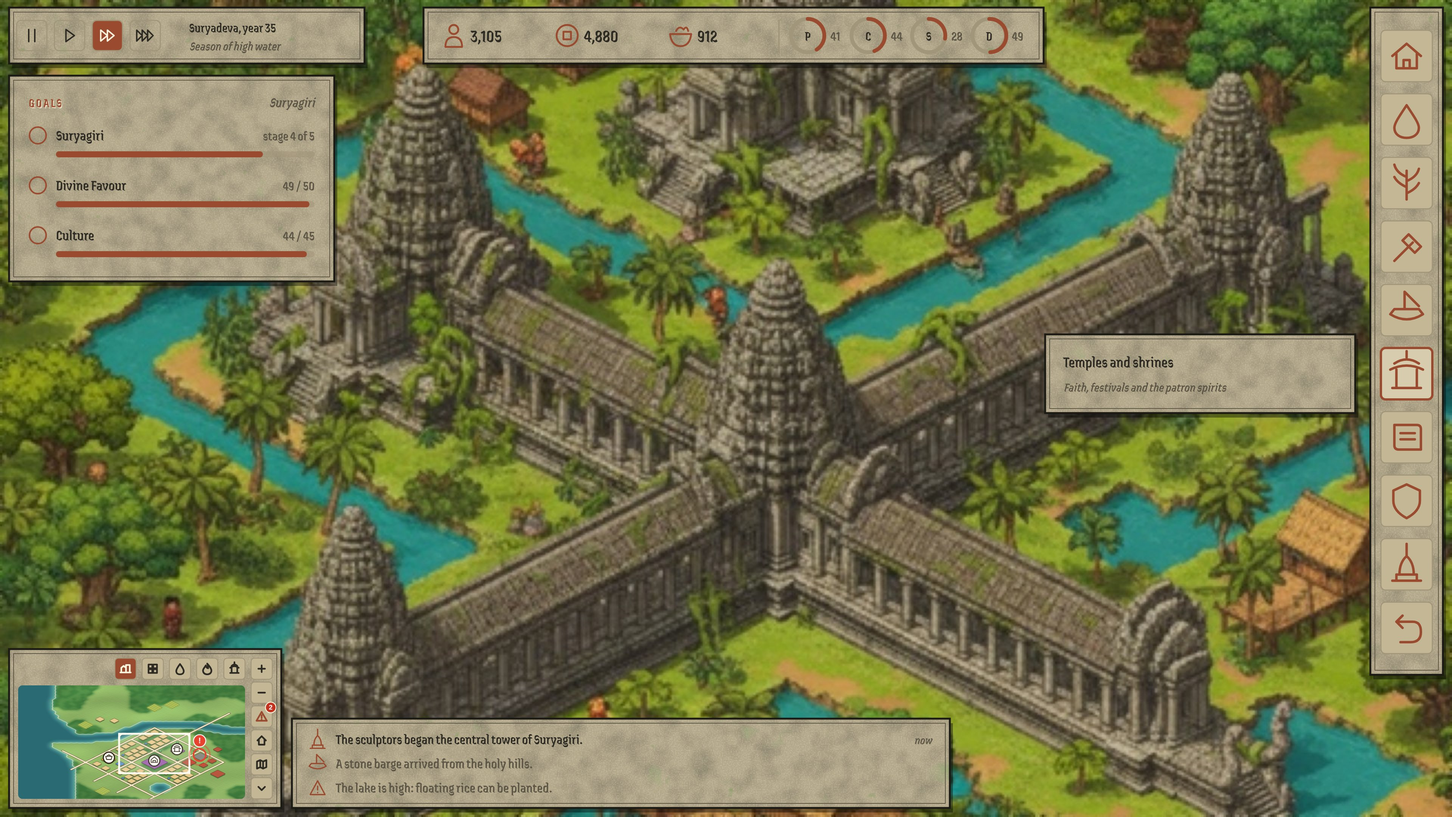
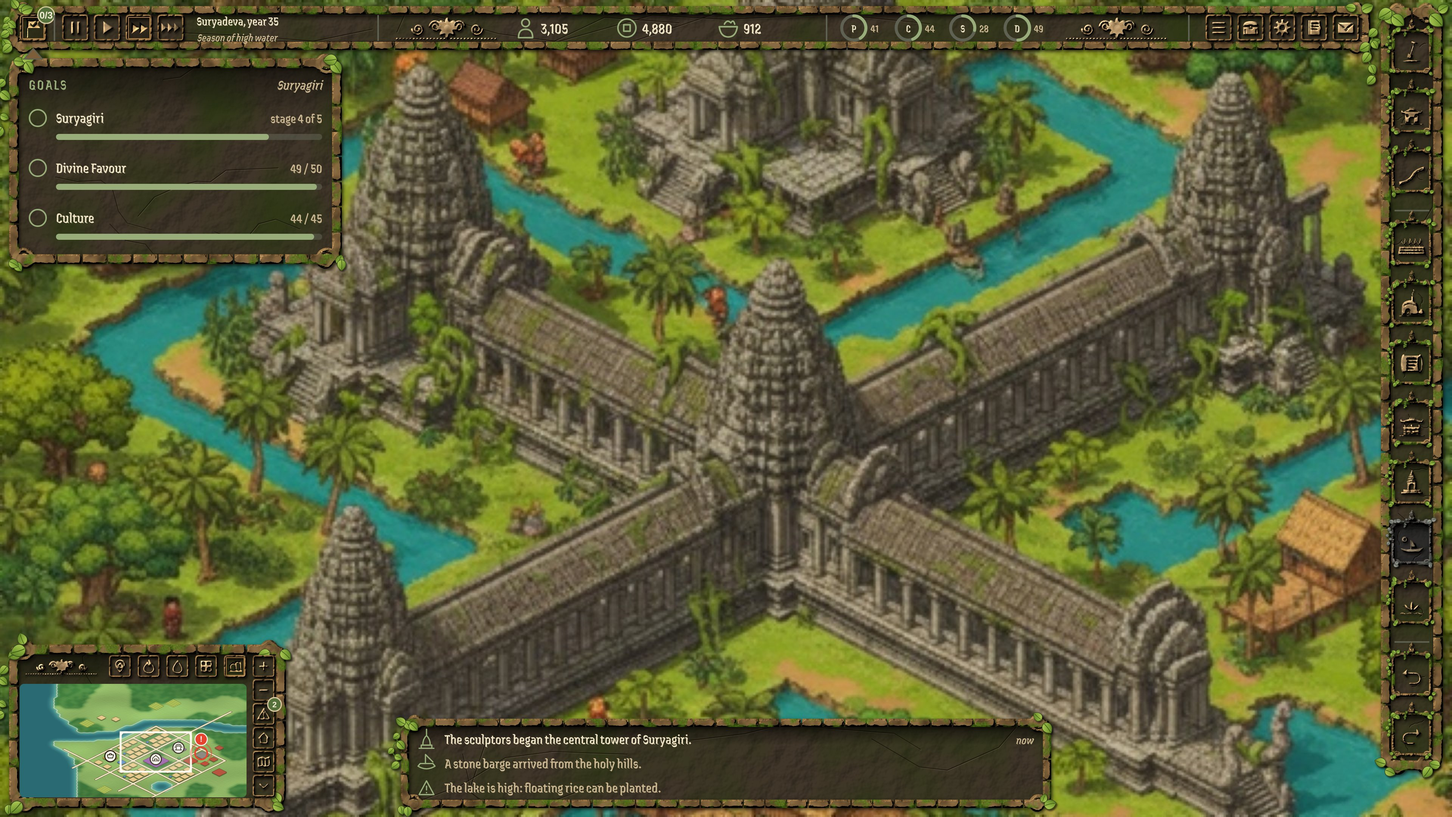
Mockups: the redrawn HUD replaces the old one; Phase 5 planned on it
hud-<realm> is now the agreed HUD at rest (palette.py), and the old
hud-menus mockups are gone (build-palette shows the build menu). The
plan's Phase 5 is rewritten on the agreed design: art and skin data,
the top bar and goals, the build palette, the minimap, message log and
inspector, then the wrap-up.

Claude-Session: https://claude.ai/code/session_01E5PQdFiW8ubMzCiZxgcQDM

Changed region(s): [[0.0, 0.0, 1.0, 0.9616], [0.0, 0.7755, 0.75, 1.0]]

diff --git a/docs/design/mockups/generator/dialogs.py b/docs/design/mockups/generator/dialogs.py
@@ -5,7 +5,6 @@ realm, into build/:
 - campaign-picker: Campaign on the home menu, once more than one is reached;
 - briefing: the mission's scroll before it starts;
 - campaign-complete: the finished stele;
-- hud-menus: the HUD's menu buttons, the build bar's child menu and its tooltip with costs;
 - inspector: the building inspector;
 - event: the important-event popup (a flood, a court request, a fire).
 
@@ -294,59 +293,6 @@ class Dialogs(Pages):
                        + self.glyph(ic, x, 47, 0.8, self.on_icon if on else self.panel_text))
         return "".join(out), bx
 
-    def hud_menus(self):
-        d = self.dd
-        parts = self.hud_parts(keep_style=True)
-        bar, _ = self.menu_buttons()
-        parts.append(bar)
-        title, items = d["build_menu"]
-        bx = W - 96 - 12
-        # The child menu of the hovered category (temples, the sixth button).
-        mw, ih = 440, 88
-        mx = bx - 20 - mw
-        my = 40 + 5 * 84 + 34 - 70
-        mh = 70 + len(items) * ih + 12
-        parts.append(self.box(mx, my, mw, mh))
-        parts.append(self.section_title(mx + 24, my + 42, title))
-        hover = 1
-        for k, (name, cost, mats, upkeep, size, reason) in enumerate(items):
-            iy = my + 62 + k * ih
-            on = k == hover
-            dimmed = reason is not None
-            g = [f'<rect x="{mx + 12}" y="{iy}" width="{mw - 24}" height="{ih - 8}" rx="6" fill="{self.btn_fill_hover if on else "none"}" '
-                 f'stroke="{self.accent if on else "none"}" stroke-width="2"/>']
-            g.append(f'<rect x="{mx + 24}" y="{iy + 10}" width="60" height="60" rx="6" fill="{self.btn_fill}" stroke="{self.panel_rule}" stroke-width="1.5"/>'
-                     + self.glyph("temple", mx + 54, iy + 40, 1.15, self.accent))
-            g.append(T(mx + 100, iy + 34, name, self.title_font, 21, self.panel_text, "start", 700))
-            g.append(self.coin_small(mx + mw - 92, iy + 27) + self.t(mx + mw - 30, iy + 34, str(cost), 19, self.panel_text, "end", 700))
-            if reason:
-                g.append(self.t(mx + 100, iy + 62, reason, 17, self.accent, "start", 700, italic=True))
-            else:
-                g.append(self.t(mx + 100, iy + 62, " · ".join(f"{m} {n}" for m, n in mats) or "No materials", 17, self.panel_sub, "start", 600))
-            parts.append(f'<g opacity="{0.5 if dimmed else 1}">' + "".join(g) + "</g>")
-        # The hovered building's tooltip, with its costs.
-        name, cost, mats, upkeep, size, _ = items[hover]
-        tw, th = 400, 400
-        tx, ty = mx - 18 - tw, my + 62 + hover * ih - 20
-        parts.append(self.box(tx, ty, tw, th))
-        parts.append(T(tx + 24, ty + 44, name, self.title_font, 25, self.panel_text, "start", 700))
-        parts.append(self.t(tx + tw - 24, ty + 44, size, 17, self.panel_sub, "end", 600))
-        note = self.wrap(d["temple_note"], tw - 48, 17, 0.5)
-        for k, line in enumerate(note):
-            parts.append(self.t(tx + 24, ty + 76 + k * 24, line, 17, self.panel_sub, "start", 600, italic=True))
-        ry = ty + 76 + len(note) * 24 + 22
-        parts.append(self.rule(tx + 24, tx + tw - 24, ry - 16))
-        rows = [("Cost", f"{cost} gold", True)]
-        for m, n in mats:
-            have = d["stock"][m]
-            rows.append((m, f"{n}  ·  {have} in storage", have >= n))
-        rows += [("Upkeep", f"{upkeep} gold a year", True), ("Workers", "8", True), ("Building time", "Civic · about 2 months", True)]
-        for k, (lab, v, ok) in enumerate(rows):
-            yy = ry + 14 + k * 34
-            parts.append(self.t(tx + 24, yy, lab, 18, self.panel_sub, "start", 600))
-            parts.append(self.t(tx + tw - 24, yy, v, 18, self.panel_text if ok else self.accent, "end", 700))
-        self.page(f"hud-menus-{d['key']}", parts)
-
     def coin_small(self, x, y):
         return (f'<circle cx="{x}" cy="{y}" r="9" fill="#c99a3c" stroke="#5a3a14" stroke-width="1.5"/>'
                 f'<rect x="{x - 3}" y="{y - 3}" width="6" height="6" fill="#2a170c"/>')
@@ -479,7 +425,7 @@ class TampadesaDialogs(Dialogs, TampadesaMenus):
 
 
 REALMS = [(DaiLongDialogs, DC.DAILONG), (KambaraDialogs, DC.KAMBARA), (TampadesaDialogs, DC.TAMPADESA)]
-SCREENS = ["game_menu", "game_quit", "campaign_picker", "briefing", "campaign_complete", "hud_menus", "inspector", "event"]
+SCREENS = ["game_menu", "game_quit", "campaign_picker", "briefing", "campaign_complete", "inspector", "event"]
 
 if __name__ == "__main__":
     import sys

diff --git a/docs/design/mockups/generator/serve.py b/docs/design/mockups/generator/serve.py
@@ -30,11 +30,11 @@ ICONS = (HERE / "../../../../crates/tools/ui-icons/icons.json").resolve()  # The
 
 REALMS = [("dailong", "Đại Long"), ("kambara", "Kambara"), ("tampadesa", "Tampadesa")]
 SCREENS = [
-    ("world-map", "World map"), ("intro", "Intro"), ("intermission", "Intermission"), ("hud", "In-game HUD"),
+    ("world-map", "World map"), ("intro", "Intro"), ("intermission", "Intermission"), ("hud", "In-game HUD"), ("build-palette", "Build palette"), ("build-icons", "Build palette icons"),
     ("menu-home", "Home"), ("menu-load-save", "Load / save"), ("menu-settings", "Settings"),
     ("menu-custom-game", "Custom game"), ("menu-about", "About"),
     ("campaign-picker", "Campaign picker"), ("game-menu", "Game menu"), ("game-quit", "Quit popup"),
-    ("briefing", "Briefing"), ("campaign-complete", "Campaign complete"), ("hud-menus", "HUD menus and build menu"),
+    ("briefing", "Briefing"), ("campaign-complete", "Campaign complete"),
     ("inspector", "Building inspector"), ("event", "Event popup"),
     ("city-overview", "City book: overview"), ("city-population", "City book: population"), ("city-goods", "City book: goods"),
     ("city-finances", "City book: finances"), ("city-ratings", "City book: ratings"), ("city-labour", "City book: labour"),

diff --git a/docs/design/mockups/generator/palette.py b/docs/design/mockups/generator/palette.py
@@ -6,8 +6,8 @@
   game-menu buttons, the sector column, the minimap's buttons), one sector open
   as a grid of icons left of the column, and the hovered icon's tooltip with its
   name and cost;
-- hud-goals-<realm>: the same HUD at rest, with the goals panel open under its
-  button.
+- hud-<realm>: the same HUD at rest, with the goals panel open under its
+  button (it replaced screens.py's HUD and dialogs.py's hud-menus).
 
 Each realm treats the same pictograms its own way: Đại Long stamps them in
 vermilion seal ink on paper, Kambara carves them in relief in sandstone, and
@@ -553,7 +553,7 @@ class Palette:
 
     def hud_goals(self):
         parts, *_ = self.hud_v2(None, goals_open=True)
-        self.page(f"hud-goals-{self.dd['key']}", parts)
+        self.page(f"hud-{self.dd['key']}", parts)
 
     def build_icons(self):
         realm = self.dd["key"]

diff --git a/docs/design/mockups/generator/screens.py b/docs/design/mockups/generator/screens.py
@@ -957,7 +957,7 @@ REALMS = [(DaiLongScreens, SC.DAILONG), (KambaraScreens, SC.KAMBARA), (Tampadesa
 
 if __name__ == "__main__":
     import sys
-    which = sys.argv[1:] or ["intro", "intermission", "hud"]
+    which = sys.argv[1:] or ["intro", "intermission"]  # the HUD page is palette.py's now
     for cls, data in REALMS:
         for screen in which:
             getattr(cls(data), screen)()

diff --git a/docs/plans/realm-ui.md b/docs/plans/realm-ui.md
@@ -1,6 +1,6 @@
 # Realm UI: menus, screens and HUD in each realm's style
 
-**Status (2026-11-13): Phases 0 and 1 done (the main menus: Home, Load / Save, Settings, Custom Game, About and the in-game Game menu); Phase 2 done (the world map: its data, base art, screen, pan and zoom, and the next mission's choice); Phase 3 done (the debrief, the campaign-complete stele and the briefing); Phase 4 done (story comics: the story data and panel art, the comic viewer, the triggers and replays, and the developer editor's Screens menu); Phase 5, the HUD, next: it waits for the tile palette icon mockups.** The user reviewed it on 2026-11-07: their notes are folded in (see [Review notes](#review-notes)), the open decisions' defaults are accepted, and every mockup the phases need now exists. This plan builds and restyles every retail screen after the [UI mockups](../design/mockups/README.md): the main menus, the world map, the intermission, the story comics, the HUD and the city management pages. Each screen gets one look per realm: Đại Long, Kambara and Tampadesa. It is milestone **UI** of the [roadmap](roadmap.md). It was researched against `ccca1df` on `claude`. File and line references point at that commit, so re-check them before relying on them.
+**Status (2026-11-13): Phases 0 and 1 done (the main menus: Home, Load / Save, Settings, Custom Game, About and the in-game Game menu); Phase 2 done (the world map: its data, base art, screen, pan and zoom, and the next mission's choice); Phase 3 done (the debrief, the campaign-complete stele and the briefing); Phase 4 done (story comics: the story data and panel art, the comic viewer, the triggers and replays, and the developer editor's Screens menu); Phase 5, the HUD, next: its mockups were redrawn with the user on 2026-11-14.** The user reviewed it on 2026-11-07: their notes are folded in (see [Review notes](#review-notes)), the open decisions' defaults are accepted, and every mockup the phases need now exists. This plan builds and restyles every retail screen after the [UI mockups](../design/mockups/README.md): the main menus, the world map, the intermission, the story comics, the HUD and the city management pages. Each screen gets one look per realm: Đại Long, Kambara and Tampadesa. It is milestone **UI** of the [roadmap](roadmap.md). It was researched against `ccca1df` on `claude`. File and line references point at that commit, so re-check them before relying on them.
 
 ![Home menu, Đại Long](../design/mockups/menu-home-dailong.jpg)
 
@@ -760,32 +760,31 @@ The existing dialogs keep their layouts but take their panels from the Đại Lo
 
 ### Phase 5: HUD
 
-**Delivers:** the in-game HUD as in `hud-<realm>.jpg`, with every old sprite gone.
+**Delivers:** the in-game HUD as in `hud-<realm>.jpg` and `build-palette-<realm>.jpg`, every button an icon tile in its realm's craft (`build-icons-<realm>.jpg`), with every old sprite gone.
 
-> **Before starting (the user, 2026-11-13):** the tile palette (the build bar's child menus) is to show a custom icon for each building instead of its text label, a deviation from the build bar item below. New mockups for it are to be designed with the user first, so Phase 5 doesn't start until they've been drawn and agreed. Remind the user of this when Phase 5 comes up.
+> **Design agreed with the user (2026-11-14), replacing this phase's first draft:** the mockups were redrawn over five rounds (commits `ecad674` to `f2a72da`, then the old `hud` and `hud-menus` mockups replaced). The decisions:
+> - Every building, sector, HUD and minimap button is an icon tile, no text labels: Đại Long a vermilion stamp (hand-pressed, uneven) on parchment in gilt bamboo under a small tiled roof; Kambara a relief on dark stone in a carved sandstone frame crowned by a Bayon face, with moss and vines; Tampadesa gold leaf on dark mudbrick in a weathered brick frame with a gold arch, under three gilt stupas. Small tiles (the top bar's, the minimap's) keep only the frame, so their icons stay readable.
+> - The pictograms (`docs/design/mockups/generator/palette_glyphs.py`) are drawn in each realm's architecture; the shrine, temple and university also take realm names (Spirit shrine, Neak ta shrine, Nat shrine; Temple, Prasat, Stupa; Temple of Literature, Library, Monastery school). Services' icon is a rolled scroll.
+> - The palette: the sector column on the right; a sector opens its buildings as a grid of icons, four to a row, left of the column; hovering one shows its name, size, cost and materials against storage (short ones in the realm's warning colour); clicking picks it and closes the grid; a building that can't be built stays in the grid, faded.
+> - One bar across the top, from the left edge to the build column, 58 points high: the goals button first (its badge counting the goals met), the speed controls, the date and season; population, treasury, food and the ratings in the middle; the game menu's buttons (Game, Load / Save, Settings, City book, Briefing) at the right. Its empty stretches, and the minimap's left of its lenses, hold an ornament in the realm's craft.
+> - The goals panel is closed by default and drops down under the goals button.
+> - The message log is centred at the bottom of the screen.
+> - Count badges take the realm's colours (a vermilion seal ringed in gilt; moss on a sandstone ring; gold leaf ringed in lacquer). Kambara's accents (icons, bars, rings, titles) are moss green on stone.
+> - The HUD's panels: Đại Long carved red wood round parchment, its ornaments all outside the parchment (key-pattern corner blocks; on large panels a carved lattice, gilt ruyi clouds, a lotus medallion under a little roof and a gilt cloud at the foot; no lanterns); Kambara carved sandstone blocks with corner volutes, moss and vines round dark cracked stone, a Bayon face over large panels; Tampadesa weathered brick round dark mudbrick, gilt flame scrolls on the corners and a gold lotus at the foot, large panels with stupa-crowned brick piers, a stupa crest, gilt nagas along the foot and vines.
 
-- [ ] **Top-left bar:** speed controls (pause, play, fast, faster) and the date in the realm's era with the season under it. This replaces SpeedControlsBar and the TopBar's date.
-- [ ] **Top-centre bar:**
-  - population, treasury and food, each with its icon;
-  - four rating badges (ring meters with the realm's Legitimacy initial), showing "—" until M9.
-- [ ] **Game menu buttons:** Game, Load/Save, Settings, City and the briefing. The HUD mockup has no place for them; `hud-menus-<realm>.jpg` puts them in their own bar left of the build bar.
-- [ ] **Goals tracker,** left: the mission name, each goal with its tick, text, progress and bar, live from the mission's requirements. Collapsible. It's hidden in custom games without goals.
-- [ ] **Build bar,** right:
-  - the mockup's column of category buttons in the realm style;
-  - the hovered button's tooltip (title and subtitle);
-  - child menus as skin lists with each building's icon, cost and materials, greyed out with the reason when unaffordable (the construction plan's tooltip);
-  - clear, roads, undo and redo kept (see [open decisions](#open-decisions) on categories).
-  - The `TilePaletteMenu/<sector>` paths and their tooltips stay, so `ui_build.jsonl` keeps working.
-- [ ] **Message log,** bottom centre: the three latest messages with type icons, the newest bold with "now".
-  - Until M11 it shows the notices the game already raises: construction completed, minimap alerts, saves.
-  - It goes through a small `MessageLog` store that M11 replaces with its typed messages.
-  - Toasts stay for screenshots and the like.
-- [ ] **Inspector:** the building, unit, prop and terrain inspectors on the skin's side panel or card (`inspector-<realm>.jpg`). The `BuildingInspector/Close` paths stay.
-- [ ] **Minimap:** its frame, tooltips and button folder come from the skin, so `assets/configs/ui/minimap/<realm>.json` keeps only the map's own settings.
-- [ ] Delete the old sprites: `buttons/menu_bar/*`, `buttons/palette/*`, `icons/{population,gold,player}_icon.png`, `misc/{wide,tall,square}_page_bg.png`, the brush strokes.
-- [ ] Scenarios:
-  - `ui_build.jsonl` updated;
-  - `ui_hud.jsonl`: speed controls, goals progress after placements, the message log after a building completes, all in three realms.
+Steps, each implemented, reviewed, fixed, committed and pushed in order, then the phase review:
+
+- [ ] **P5a Art and skin data:**
+  - ui-art renders the mockups' art into each realm's skin with the generator's own drawing code (`palette.py`, `palette_glyphs.py`, `kambara_carving.py`, `dailong_carving.py`, `tampadesa_brick.py`): the icon tile frames (palette size with its crest, sector size, small) in four states; the glyphs (30 buildings, 12 sectors, 10 HUD buttons, 11 minimap buttons) as one atlas per realm, a normal and a pressed variant each (hovered and disabled are tints); the HUD panels as 9-slices (the bar, a panel, a large panel) and their ornaments as separate sprites; the gap ornaments, the notch and the badge.
+  - The engine: panel decorations, sprites anchored outside a 9-slice's rect (top centre, corners, bottom centre, with offsets and a minimum size to show), drawn with the panel; an icon tile widget (frame by state, glyph from an atlas, tint, badge), recording `icon_button` as today's do.
+  - The skin's `hud` block: the tile looks by size, the glyph atlas, the panels and their decorations, the ornaments, the badge and accent colours. Realm strings for the buildings' realm names (falling back to the tile's name), sector titles and the HUD buttons' tooltips.
+  - Tests: every glyph a building, sector or button needs exists in each realm's atlas; `ui_skins` checks the new sprites and borders; the Skin Gallery shows the tiles in their states and the panels.
+- [ ] **P5b Top bar and goals:** one bar replacing TopBar, SpeedControlsBar and the left menu bar: the goals button and badge, the speed controls, the date in the realm's era and the season, population, treasury and food, the ratings (hidden until M9, per [open decision](#open-decisions) 11, so the middle shows the three resources and the ornaments widen), and the game menu's buttons (City book opens today's city management until Phase 6; Briefing only in a campaign mission). The goals panel, live from the mission's requirements, drops down under its button; the button is hidden in a custom game without goals.
+- [ ] **P5c Build palette:** the sector column of icon tiles (clear, housing, roads, the eight sectors, undo, redo, with separators); a sector's grid of building tiles, four to a row, next to its button; the tooltip with the realm name, size, cost and materials against storage, and why when it can't be built (gold, debt); a disabled tile faded; click picks and closes. The `TilePaletteMenu/<sector>` paths and their tooltips stay, so `ui_build.jsonl` keeps working.
+- [ ] **P5d Minimap, message log, inspector:** the minimap's frame, buttons (small icon tiles) and gap ornament from the skin, so `assets/configs/ui/minimap/<realm>.json` keeps only the map's own settings; the message log centred at the bottom, the three latest with type icons and the newest bold with "now", fed by a small `MessageLog` store (construction completed, minimap alerts, saves, debt) that M11 replaces, toasts staying for screenshots and the like; the building, unit, prop and terrain inspectors on the HUD's panel (`inspector-<realm>.jpg`'s layout in the new frames), the `BuildingInspector/Close` paths kept.
+- [ ] **P5e Wrap-up:** delete the old sprites (`buttons/menu_bar/*`, `buttons/palette/*`, `icons/{population,gold,player}_icon.png`, `misc/{wide,tall,square}_page_bg.png`, the brush strokes); scenarios (`ui_build.jsonl` updated; `ui_hud.jsonl`: the speed controls, the goals panel and its progress after placements, the palette's grid and tooltip, the message log after a building completes, in three realms, at 75%, 100% and 200% UI scale); `ui_snapshot.jsonl`'s HUD; the docs and known issues; final screenshots beside the mockups.
+
+Left for later (in known-issues once the phase lands): no building is locked by mission yet, so a tile is disabled only when it can't be paid for; the dialogs of Phases 1 to 4 keep their own panels, which now differ from the HUD's frames in each realm; the HUD keeps its sizes at every UI scale, as today, until egui's zoom lands.
 
 ### Phase 6: City management pages
 
@@ -838,14 +837,14 @@ Every screen the phases build has a mockup in all three realms, in [docs/design/
 | In-game Game menu and the Quit popup | 1 | `game-menu-<realm>.jpg`, `game-quit-<realm>.jpg` |
 | Briefing scroll | 3 | `briefing-<realm>.jpg` |
 | Campaign complete (the finished stele) | 3 | `campaign-complete-<realm>.jpg` |
-| HUD game-menu buttons, the build bar's child menu and its tooltip with costs | 5 | `hud-menus-<realm>.jpg` |
+| The HUD (one top bar, goals panel, build column, minimap, message log) and the build palette with its icons, redrawn with the user on 2026-11-14 | 5 | `hud-<realm>.jpg`, `build-palette-<realm>.jpg`, `build-icons-<realm>.jpg` |
 | Building inspector | 5 | `inspector-<realm>.jpg` |
 | City book: Overview, Population, Goods, Finances | 6 | `city-{overview,population,goods,finances}-<realm>.jpg` |
 | City book: Ratings, Labour, Food | 6, for M9 and M11 | `city-{ratings,labour,food}-<realm>.jpg` |
 | City book: Heritage (monument, patrons, festivals; added 2026-11-08) | 6, for M8 and game Phase 2 | `city-heritage-<realm>.jpg` (Festivals tab) |
 | Important-event popup (flood, fire, court request) | 5, for M11 | `event-<realm>.jpg` |
 
-The HUD's menu buttons got their own bar left of the build bar, not the left end of the top-left bar (Phase 5's default): the date leaves no room there.
+The HUD's menu buttons first got their own bar left of the build bar; the redrawn HUD (2026-11-14) puts them at the right end of one top bar.
 
 ## Performance
 
@@ -868,7 +867,7 @@ The user accepted every default on 2026-11-07, with the changes marked below.
 | 5 | 9-slice centres | Stretch. `center: "tile"` per panel where grain shows. |
 | 6 | Dialogs: each its own window, or stacked inside the root as today | Each its own window. |
 | 7 | Build bar categories: the mockup's nine (house, water, farm, industry, trade, temple, learning, defence, monument) or today's sectors | Today's sectors with the mockup's icons. New categories come only with buildings that need them. |
-| 8 | Where the game menu buttons go in the HUD | Their own bar, left of the build bar (`hud-menus-<realm>.jpg`). |
+| 8 | Where the game menu buttons go in the HUD | At the right end of one bar across the top (`hud-<realm>.jpg`; changed 2026-11-14). |
 | 9 | The art renderer | Playwright's Chromium on the generator's SVG; Pillow stays for glyph icons. |
 | 10 | Save thumbnails | A JPEG beside each save, taken at the save's camera position; its size is a config (default 320 × 180). Old saves show none. (Changed in review.) |
 | 11 | Ratings and distinctions before M9 | Hidden, not shown as placeholders. |

diff --git a/docs/design/mockups/README.md b/docs/design/mockups/README.md
@@ -36,13 +36,15 @@ The debrief after a mission (gdd.md 4, *Mission flow*), shown after mission 5 of
 
 ## In-game HUD
 
-The minimal HUD of gdd.md 10 over a city: speed and date, population, treasury, food and the four ratings, the goals tracker, the build bar with a tooltip, the minimap and the message log. The minimap is the [minimap concept](#minimap) A drawn by `minimap.py` (the sample city, in each realm's palette) with the game's layout: lens icons right-aligned across the top and tools down the right. Đại Long uses parchment and wood, Kambara mossy sandstone, Tampadesa earthen brown with gilt trim.
+The HUD of gdd.md 10 over a city, as agreed with the user on 2026-11-14 (the design is described under [Build palette icons and the HUD's buttons](#build-palette-icons-and-the-huds-buttons)): one bar across the top (the goals button, speed and date; population, treasury, food and the four ratings; the game menu), the goals panel dropped down under its button, the build column on the right, the minimap at the bottom left in the game's layout, and the message log centred at the bottom. Each realm's panels and buttons are its own craft: Đại Long's carved red wood and gilt bamboo round parchment, Kambara's carved and mossy sandstone, Tampadesa's brick and gold.
 
-| Realm | Image |
-|---|---|
-| Đại Long | [hud-dailong.jpg](hud-dailong.jpg) |
-| Kambara | [hud-kambara.jpg](hud-kambara.jpg) |
-| Tampadesa | [hud-tampadesa.jpg](hud-tampadesa.jpg) |
+| Realm | The HUD at rest, goals open | The build palette open |
+|---|---|---|
+| Đại Long | [hud-dailong.jpg](hud-dailong.jpg) | [build-palette-dailong.jpg](build-palette-dailong.jpg) |
+| Kambara | [hud-kambara.jpg](hud-kambara.jpg) | [build-palette-kambara.jpg](build-palette-kambara.jpg) |
+| Tampadesa | [hud-tampadesa.jpg](hud-tampadesa.jpg) | [build-palette-tampadesa.jpg](build-palette-tampadesa.jpg) |
+
+The dialogs drawn over the HUD (the Game menu, the Quit popup, the inspector, the event popup) still show the earlier HUD behind them; their own panels are unchanged.
 
 The city behind the HUD is existing art: Đại Long's is cropped from `../../images/prototype_apr_2026_3.jpg`, and Kambara's and Tampadesa's are the small reference mocks in `../../images/references/` scaled up, so they look soft.
 
@@ -73,11 +75,9 @@ The screens the [realm UI plan](../../plans/realm-ui.md#mockups) found missing. 
 | Campaign picker | [campaign-picker-dailong.jpg](campaign-picker-dailong.jpg) | [campaign-picker-kambara.jpg](campaign-picker-kambara.jpg) | [campaign-picker-tampadesa.jpg](campaign-picker-tampadesa.jpg) |
 | Briefing | [briefing-dailong.jpg](briefing-dailong.jpg) | [briefing-kambara.jpg](briefing-kambara.jpg) | [briefing-tampadesa.jpg](briefing-tampadesa.jpg) |
 | Campaign complete (the finished stele) | [campaign-complete-dailong.jpg](campaign-complete-dailong.jpg) | [campaign-complete-kambara.jpg](campaign-complete-kambara.jpg) | [campaign-complete-tampadesa.jpg](campaign-complete-tampadesa.jpg) |
-| HUD menu buttons, build menu and its tooltip with costs | [hud-menus-dailong.jpg](hud-menus-dailong.jpg) | [hud-menus-kambara.jpg](hud-menus-kambara.jpg) | [hud-menus-tampadesa.jpg](hud-menus-tampadesa.jpg) |
 | Building inspector | [inspector-dailong.jpg](inspector-dailong.jpg) | [inspector-kambara.jpg](inspector-kambara.jpg) | [inspector-tampadesa.jpg](inspector-tampadesa.jpg) |
 | Important-event popup (flood, court request, fire) | [event-dailong.jpg](event-dailong.jpg) | [event-kambara.jpg](event-kambara.jpg) | [event-tampadesa.jpg](event-tampadesa.jpg) |
 
-- The HUD's menu buttons (Game, Load / Save, Settings, City book, Briefing) get their own bar left of the build bar, not the left end of the top-left bar: the date leaves no room there.
 - The campaign picker only appears once a second campaign is reached, so Đại Long's version, with Campaign I alone open, shows its look rather than a state the game would show.
 - The build menu's costs are the game's own (`assets/tiles/objects/tile_set.json`); the bricks and roof tiles in storage are the Goods page's.
 
@@ -95,11 +95,11 @@ The pictograms are drawn by `palette_glyphs.py` in each realm's architecture (Đ
 
 | Realm | Treatment | Every icon and its states | The palette open | The HUD at rest, goals open |
 |---|---|---|---|---|
-| Đại Long | Vermilion stamps on parchment in a frame of gilt bamboo lashed at the corners, under a small tiled roof with a gilt lotus, after the user's references; pressed is the stamp cut the other way, red ground with the building bare; the stamps are hand-pressed: uneven ink, speckled, ragged at the edges, with a faint double strike; the HUD's panels are carved red lacquered wood round parchment, every ornament outside the parchment: gilt key-pattern blocks on the corners, and on the large ones a lattice and gilt ruyi clouds carved along the top beam, a lotus medallion under a little roof at its middle and a gilt cloud at the foot (`dailong_carving.py`) | [build-icons-dailong.jpg](build-icons-dailong.jpg) | [build-palette-dailong.jpg](build-palette-dailong.jpg) | [hud-goals-dailong.jpg](hud-goals-dailong.jpg) |
-| Kambara | Carved sandstone, after the user's references: a frame of weathered blocks with corner volutes, a Bayon face crowning it, moss and hanging vines, a dark cracked panel and the building in relief, lit from the top left; pressed sinks the relief, hovered glows; the HUD's panels are the same carved frames, the large ones crowned too, and its accents (icons, bars, rings, titles) are moss green on stone (`kambara_carving.py`) | [build-icons-kambara.jpg](build-icons-kambara.jpg) | [build-palette-kambara.jpg](build-palette-kambara.jpg) | [hud-goals-kambara.jpg](hud-goals-kambara.jpg) |
-| Tampadesa | Brick and gold, after the user's references: a frame of weathered red brick with a scalloped gold arch and lintel inside its top, three gilt stupa spires crowning it, a gold lotus at its foot, a vine; the building in gold leaf on dark mudbrick; hovered glows, pressed lights the gold, disabled turns grey. The HUD's panels are the same brick round rough dark mudbrick, gilt flame scrolls (kanok) on their corners and a gold lotus at the foot; the large ones get brick piers crowned by stupas at their top corners, a stupa crest between gilt scrolls at the top's middle, gilt nagas along the foot and vines (`tampadesa_brick.py`) | [build-icons-tampadesa.jpg](build-icons-tampadesa.jpg) | [build-palette-tampadesa.jpg](build-palette-tampadesa.jpg) | [hud-goals-tampadesa.jpg](hud-goals-tampadesa.jpg) |
+| Đại Long | Vermilion stamps on parchment in a frame of gilt bamboo lashed at the corners, under a small tiled roof with a gilt lotus, after the user's references; pressed is the stamp cut the other way, red ground with the building bare; the stamps are hand-pressed: uneven ink, speckled, ragged at the edges, with a faint double strike; the HUD's panels are carved red lacquered wood round parchment, every ornament outside the parchment: gilt key-pattern blocks on the corners, and on the large ones a lattice and gilt ruyi clouds carved along the top beam, a lotus medallion under a little roof at its middle and a gilt cloud at the foot (`dailong_carving.py`) | [build-icons-dailong.jpg](build-icons-dailong.jpg) | [build-palette-dailong.jpg](build-palette-dailong.jpg) | [hud-dailong.jpg](hud-dailong.jpg) |
+| Kambara | Carved sandstone, after the user's references: a frame of weathered blocks with corner volutes, a Bayon face crowning it, moss and hanging vines, a dark cracked panel and the building in relief, lit from the top left; pressed sinks the relief, hovered glows; the HUD's panels are the same carved frames, the large ones crowned too, and its accents (icons, bars, rings, titles) are moss green on stone (`kambara_carving.py`) | [build-icons-kambara.jpg](build-icons-kambara.jpg) | [build-palette-kambara.jpg](build-palette-kambara.jpg) | [hud-kambara.jpg](hud-kambara.jpg) |
+| Tampadesa | Brick and gold, after the user's references: a frame of weathered red brick with a scalloped gold arch and lintel inside its top, three gilt stupa spires crowning it, a gold lotus at its foot, a vine; the building in gold leaf on dark mudbrick; hovered glows, pressed lights the gold, disabled turns grey. The HUD's panels are the same brick round rough dark mudbrick, gilt flame scrolls (kanok) on their corners and a gold lotus at the foot; the large ones get brick piers crowned by stupas at their top corners, a stupa crest between gilt scrolls at the top's middle, gilt nagas along the foot and vines (`tampadesa_brick.py`) | [build-icons-tampadesa.jpg](build-icons-tampadesa.jpg) | [build-palette-tampadesa.jpg](build-palette-tampadesa.jpg) | [hud-tampadesa.jpg](hud-tampadesa.jpg) |
 
-The sectors and buildings are the game's (`TilePaletteMainButtonDef`, the sectors and costs in `assets/tiles/objects/tile_set.json`); Services' icon is a rolled scroll. The palette screens open Industry and resources, with the mine disabled and the distillery hovered, short of bricks. These screens supersede the HUD's buttons and goals panel in `hud-<realm>.jpg` and `hud-menus-<realm>.jpg`. The palette names the shrine, temple and university in each realm's own words (Spirit shrine, Neak ta shrine, Nat shrine; Temple, Prasat, Stupa; Temple of Literature, Library, Monastery school). Placeholders: those names, and the bricks in storage.
+The sectors and buildings are the game's (`TilePaletteMainButtonDef`, the sectors and costs in `assets/tiles/objects/tile_set.json`); Services' icon is a rolled scroll. The palette screens open Industry and resources, with the mine disabled and the distillery hovered, short of bricks. The palette names the shrine, temple and university in each realm's own words (Spirit shrine, Neak ta shrine, Nat shrine; Temple, Prasat, Stupa; Temple of Literature, Library, Monastery school). Placeholders: those names, and the bricks in storage.
 
 ## City book
 
@@ -154,21 +154,21 @@ builds every screen and serves them at http://127.0.0.1:8765/ (`--port` and `--h
 
 ## Regenerating
 
-The generator lives in [generator/](generator/): `common.py` holds the shared geography and layout, `content.py` what each realm's map shows, and `world_map.py` the three styles. `screens.py` (with its text in `screens_content.py`) draws the intro, intermission and HUD screens in the same styles, and `menus.py` (text in `menus_content.py`) the main menu screens. `pages.py` (text in `pages_content.py`) draws the City book, `palette.py` (pictograms in `palette_glyphs.py`, Kambara's carving in `kambara_carving.py`, Đại Long's woodwork in `dailong_carving.py`, Tampadesa's brickwork in `tampadesa_brick.py`) the build palette's icons and the HUD's buttons, and `dialogs.py` (text in `dialogs_content.py`) the in-game dialogs and the campaign flow screens. It needs Python 3, Node with Playwright and Chromium, and network access to Google Fonts the first time.
+The generator lives in [generator/](generator/): `common.py` holds the shared geography and layout, `content.py` what each realm's map shows, and `world_map.py` the three styles. `screens.py` (with its text in `screens_content.py`) draws the intro and intermission screens in the same styles (and the earlier HUD the dialogs sit over), and `menus.py` (text in `menus_content.py`) the main menu screens. `pages.py` (text in `pages_content.py`) draws the City book, `palette.py` (pictograms in `palette_glyphs.py`, Kambara's carving in `kambara_carving.py`, Đại Long's woodwork in `dailong_carving.py`, Tampadesa's brickwork in `tampadesa_brick.py`) the build palette's icons and the HUD's buttons, and `dialogs.py` (text in `dialogs_content.py`) the in-game dialogs and the campaign flow screens. It needs Python 3, Node with Playwright and Chromium, and network access to Google Fonts the first time.
 
 ```bash
 cd docs/design/mockups/generator
 python3 fonts.py        # embeds the fonts into build/fonts.css (git-ignored): Google Fonts and assets/fonts
 python3 world_map.py    # writes build/world-map-<realm>.html
 node shot.js world-map-dailong world-map-kambara world-map-tampadesa
-python3 screens.py      # writes build/{intro,intermission,hud}-<realm>.html
-node shot.js intro-dailong intermission-dailong hud-dailong   # and so on per realm
+python3 screens.py      # writes build/{intro,intermission}-<realm>.html
+node shot.js intro-dailong intermission-dailong   # and so on per realm
 python3 minimap.py      # writes build/minimap-concepts.html and minimap-lenses.html
 python3 menus.py        # writes build/menu-{home,load-save,settings,custom-game,about}-<realm>.html
 node shot.js menu-home-dailong   # and so on
 python3 pages.py        # writes build/city-{overview,population,goods,finances,ratings,labour,food}-<realm>.html
-python3 dialogs.py      # writes build/{game-menu,game-quit,campaign-picker,briefing,campaign-complete,hud-menus,inspector,event}-<realm>.html
-python3 palette.py      # writes build/{build-icons,build-palette,hud-goals}-<realm>.html
+python3 dialogs.py      # writes build/{game-menu,game-quit,campaign-picker,briefing,campaign-complete,inspector,event}-<realm>.html
+python3 palette.py      # writes build/{hud,build-palette,build-icons}-<realm>.html
 node shot.js city-overview-dailong game-menu-dailong   # and so on
 ```
 

diff --git a/AGENTS.md b/AGENTS.md
@@ -323,4 +323,4 @@ When you learn something durable about the codebase, add it here or to a `.claud
 - [docs/plans/terrain-height.md](docs/plans/terrain-height.md) — analysis and plan for terrain elevation: the options compared, discrete levels with cliffs and ramps recommended, and staged work from a go/no-go spike to art. Draft; not started.
 - [docs/plans/unit-movement.md](docs/plans/unit-movement.md) — eight-direction movement for off-road walkers: N, S, E and W directions with a fallback to existing art, 8-way pathfinding without cutting corners, even speed on diagonals; the art comes from the Blender walker experiment (placeholder-art Phase 6). Draft; not started.
 - [docs/plans/minimap.md](docs/plans/minimap.md) — the minimap redesign (MM): a painted relief base baked on the CPU, buildings and roads as egui shapes, lenses, a toolbar (zoom, alerts, home, world map), realm styles as JSON, and the art pipeline changes (a `minimap` block on tile defs, a UI icon script). Done; its notes record the deviations and what was verified.
-- [docs/plans/realm-ui.md](docs/plans/realm-ui.md) — milestone UI: every retail screen in each realm's style, after the mockups. Skins as data (9-slice panels, buttons, controls, fonts), a script that draws the placeholder art from the mockup generator, a persistent profile in the user configs, localized strings and sound hooks, then the main menus, world map, intermission and briefing, story comics, HUD and City book, phase by phase. Phase 0 done: the widgets split, the realm and player profile, localized strings, sound hooks, the engine's data-driven themes, 9-slice panels and menu inner rect, the realm fonts, the ui-art pipeline, the skins, the widgets, the dialog framework, popups, tooltips, toasts and controls on skin art, the Skin Gallery and the skins' tests; Phase 1 done (the main menus: Home, Load / Save, Settings, Custom Game, About and the in-game Game menu); Phase 2 done (the world map: its data, base art, screen, pan and zoom, and the next mission's choice); Phase 3 done (the debrief, the campaign-complete stele and the briefing); Phase 4 done (story comics: the story data and panel art, the comic viewer, the triggers and replays, and the developer editor's Screens menu); Phase 5, the HUD, next: waits for the tile palette icon mockups.
+- [docs/plans/realm-ui.md](docs/plans/realm-ui.md) — milestone UI: every retail screen in each realm's style, after the mockups. Skins as data (9-slice panels, buttons, controls, fonts), a script that draws the placeholder art from the mockup generator, a persistent profile in the user configs, localized strings and sound hooks, then the main menus, world map, intermission and briefing, story comics, HUD and City book, phase by phase. Phase 0 done: the widgets split, the realm and player profile, localized strings, sound hooks, the engine's data-driven themes, 9-slice panels and menu inner rect, the realm fonts, the ui-art pipeline, the skins, the widgets, the dialog framework, popups, tooltips, toasts and controls on skin art, the Skin Gallery and the skins' tests; Phase 1 done (the main menus: Home, Load / Save, Settings, Custom Game, About and the in-game Game menu); Phase 2 done (the world map: its data, base art, screen, pan and zoom, and the next mission's choice); Phase 3 done (the debrief, the campaign-complete stele and the briefing); Phase 4 done (story comics: the story data and panel art, the comic viewer, the triggers and replays, and the developer editor's Screens menu); Phase 5, the HUD, next: its mockups were redrawn with the user on 2026-11-14.
